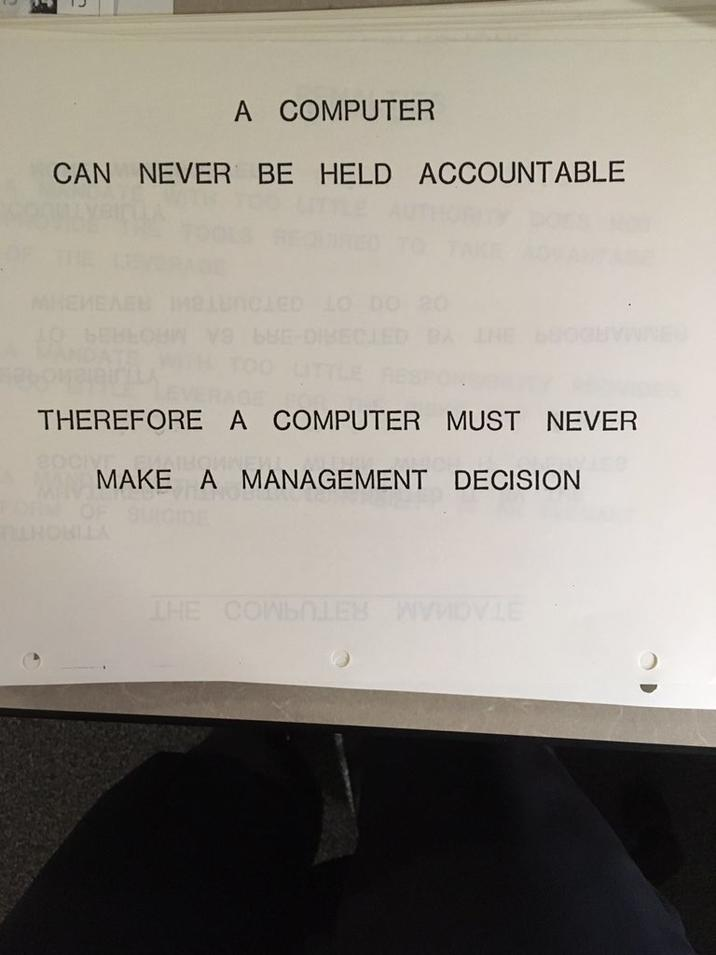
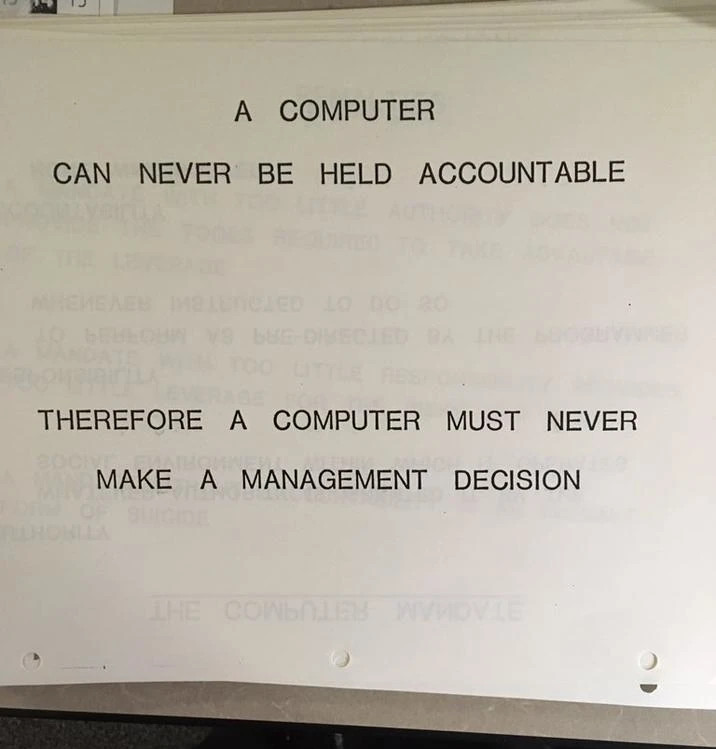
update sections

diff --git a/docs/ai.md b/docs/ai.md
@@ -1,4 +1,4 @@
-# AI governing humans
+# AI Enabled Mass Surveillance
 
 Your brain tells you something impending is on its way—some adversary or something bad but the gut feeling won't accept it, stomach is far stronger than the mind and gut feeling often seems to prevail. No matter the reality of the situation, if its something you have never experienced before, it cannot happen.
 
@@ -11,9 +11,15 @@ India is the most CCTV surveilled country, second only to China and I have known
 
 Reading a newspaper article this morning opened my eyes over how negligent I have really been to the recent developments in mass surveillance.
 
-![IBM's 1979 training quote](img/ai.jpg)
+![IBM's 1979 training quote](img/ai.webp){ .align-left width="50%" }
+<br>
+>The 1979 IBM Training Manual Excerpt is a guideline from IBM's internal data processing training materials that explicitly warns against allowing computers to make management decisions. The passage underscores mid-20th-century corporate reservations about delegating executive authority to automated systems, emphasizing ethical and accountability limits in early computing applications within business operations.
 
-The article was about how an AI system in Bengaluru had mistaken a guitar case for pillion rider travelling without a helmet and issued a fine to the rider. A senior police officer admitted that it was indeed a false flag and tends to happen occasionally as the system has not reached a 100% accuracy. Well if its not accurate, the system should not be given the power to automatically issue fines to normal people without being approved by humans in the first place.
+<br>
+<br>
+<br>
+
+The article was about how an AI system in Bengaluru had mistaken a guitar case for pillion rider travelling without a helmet and issued a fine to the scooter rider. A senior police officer admitted that it was indeed a false flag and tends to happen occasionally as the system has not reached a 100% accuracy. Well if its not accurate, the system should not be given the power to automatically issue fines to normal people without being approved by humans in the first place.
 
 This is just one small instance which raises  questions about how there is absolutely no publically available information regarding the depths of AI integration in the surveillance infrastructure and the control of automated systems over the lives of normal people.
 

diff --git a/docs/mining_monero.md b/docs/mining_monero.md
@@ -8,8 +8,15 @@ I left my rig running while regularly checking the miner and pool statistics. I 
 
 As someone who had never trusted the financial system, discovering the true nature of cryptocurrency was a special moment.
 
-I am still mining, partly to help secure the network and partly to hopefully reserve some Monero for myself.
+I mined for over an year, partly to help secure the network and partly to hopefully reserve some Monero for myself.
+
+However the cryptocurrency does not fancy me like it used to. It burns electricity to produce nothing—no food, no shelter, no warmth. What remains is a ledger that must be fed still more energy just to persist. 
+
+While I find it more appealing than the traditional centralised financial system, it is no better than the worthless paper promises. Not to mention most of today's money exists as digital data.
+
+True wealth is energy captured in physical form—human effort stored across time, transformed into something that can be traded for something else.
+
+Experience seems to be the best way to learn about something.
 
 Learn more about Monero in the [Resources](resources.md) section.
 
-Experience seems to be the best way to learn about something.

diff --git a/docs/reality.md b/docs/reality.md
@@ -4,7 +4,7 @@
 ![Flammarion_engraving](img/Flammarion_engraving.webp)
 
 
-Life began on planet Earth by accident. A single protozoan divided, multiplied, and eventually evolved into many different forms of life. A vast majority of the species have already gone extent, some are on the verge and those we see around us are still undergoing evolution.
+Life began on planet Earth by accident. A single protozoan divided, multiplied, and eventually evolved into many different forms of life. A vast majority of the species have already gone extinct, some are on the verge and those we see around us are still undergoing evolution.
 
 All life forms share a common purpose i.e. to survive long enough to be able to reproduce and give birth to offsprings that can do the same and ensure the continuity of their sepcies.
 All living organisms are equal and no species not even human beings are more significant than another. This may seem repulsive at first because the society we grow and live in is an artificial construct very opposite to how nature intended us to live.

diff --git a/docs/introduction.md b/docs/introduction.md
@@ -12,4 +12,6 @@ If I try to reach an objective conclusion with Science, I would mention Darwin's
 
 But I personally do not resonate with it. I have formed my own subjective underlying reasons which I find meaningful to some extent. I value knowledge and understanding objective reality, and I am constantly seeking answers to many questions be it big or small. For some reason the fact that so many things remain unknown to humans consoles me.
 
+Perhaps life’s very meaninglessness allows everyone to find their own meaning.
+
 In the philosophy section I write about things from my perspective, I do not intend to convince anyone of anything. Someone whose beliefs and experiences are similar to mine might find my content resonate within them while another person might find it sensless or false.   

diff --git a/docs/space.md b/docs/space.md
@@ -1,4 +1,4 @@
-# Cosmos
+# Contemplating about Our place in the Universe
 
 ![Stone](img/stone.jpg){ width="50%" }
 
@@ -15,3 +15,6 @@ The Pillars of Creation standing at a length of 1 Light year.
 This means its so big that light itself will require a whole year to travel between the farthest points. One light year is equal to 9460730472580.8 km, which is approximately 9.46 trillion kilometres or 5.88 trillion miles.
 
 The Pillars of Creation are elephant-trunk-shaped clouds of gas and dust in the Eagle Nebula (M16) that are actively forming new stars. They were photographed by the Hubble Space Telescope in 1995, and they are about 6,500–7,000 light-years from Earth.
+
+<br>
+><span style="color:yellow">**Section Under Construction**</span>

diff --git a/docs/technocracy.md b/docs/technocracy.md
@@ -1,0 +1,8 @@
+“The Empire of Scientism will constitute governance of the machine, by the machine, for the machine.”
+
+~ James Tunney
+
+In the Tunney quote above, ‘Scientism’ is equivalent to what is now called technocracy. 
+
+<br>
+><span style="color:yellow">**Section Under Construction**</span>

diff --git a/docs/death.md b/docs/death.md
@@ -1,7 +1,7 @@
 # Death
 
 ![Ophelia](img/Ophelia.webp)
-<center> Ophelia by John Everett Millais, 1851-1852, via ArtUK </center>
+<center> Ophelia by John Everett Millais, 1851-1852 </center>
 
 <br>
 
